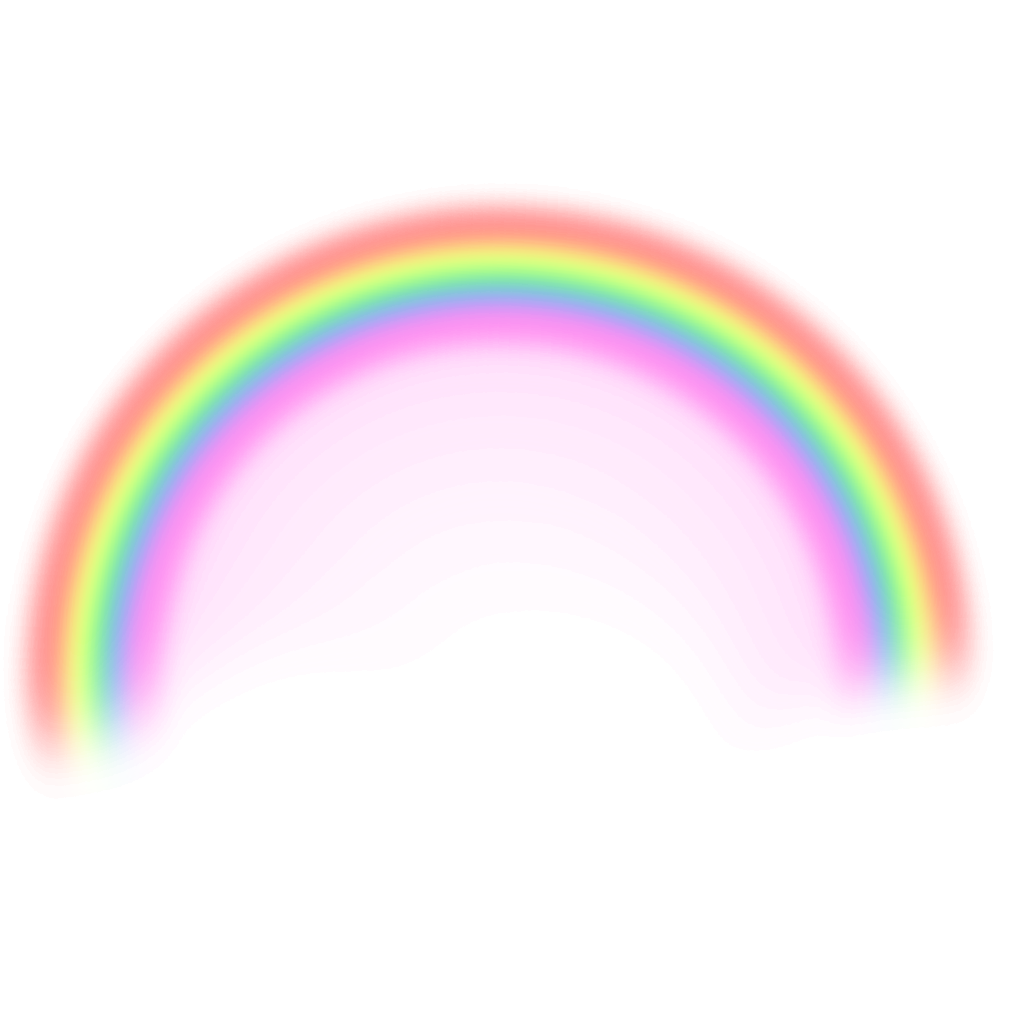
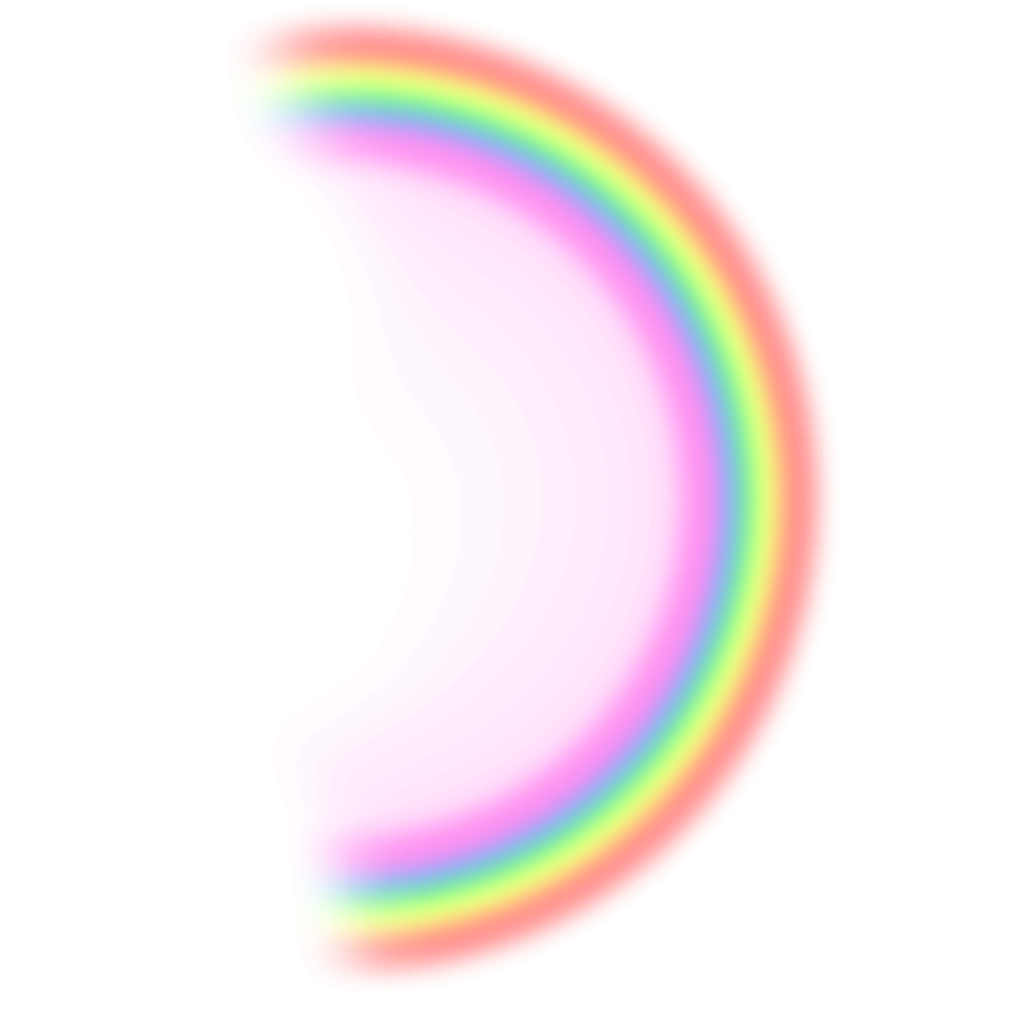
gfx | repaired rainbow

diff --git a/src/engine/renderparticles.cpp b/src/engine/renderparticles.cpp
@@ -916,7 +916,7 @@ static partrenderer *parts[] =
     new quadrenderer("media/particles/weather/cloud_4.png", PT_PART|PT_NOMAXDIST),                                           // PART_CLOUD4
     new quadrenderer("media/particles/weather/cloud_5.png", PT_PART|PT_NOMAXDIST),                                           // PART_CLOUD5
     new quadrenderer("media/particles/weather/cloud_6.png", PT_PART|PT_NOMAXDIST),                                           // PART_CLOUD6
-    new quadrenderer("media/particles/weather/rainbow.png", PT_PART|PT_NOMAXDIST),                                           // PART_RAINBOW
+    new trailrenderer("media/particles/weather/rainbow.png", PT_TRAIL|PT_NOMAXDIST),                                         // PART_RAINBOW
     &lightnings,                                                                                                             // PART_LIGHTNING
     // game specific
     new quadrenderer("media/particles/game/target.png", PT_PART|PT_LERP|PT_BRIGHT),                                          // PART_TARGET
@@ -1541,7 +1541,8 @@ static void makeparticles(entity &e)
             if(map_atmo==8 || e.attr3)
             {
                 int size = e.attr2;
-                newparticle(e.o, e.o, 1, PART_RAINBOW, 0xAAAAAA, size*3);
+                vec origin = e.o;
+                newparticle(origin.add(vec(0, 0, size*1.5)), offsetvec(e.o, 0, size*300), 1, PART_RAINBOW, 0xAAAAAA, size*3);
             }
             particle_hud(PART_VISEUR, e.o, 0xBBBBBB);
             break;
